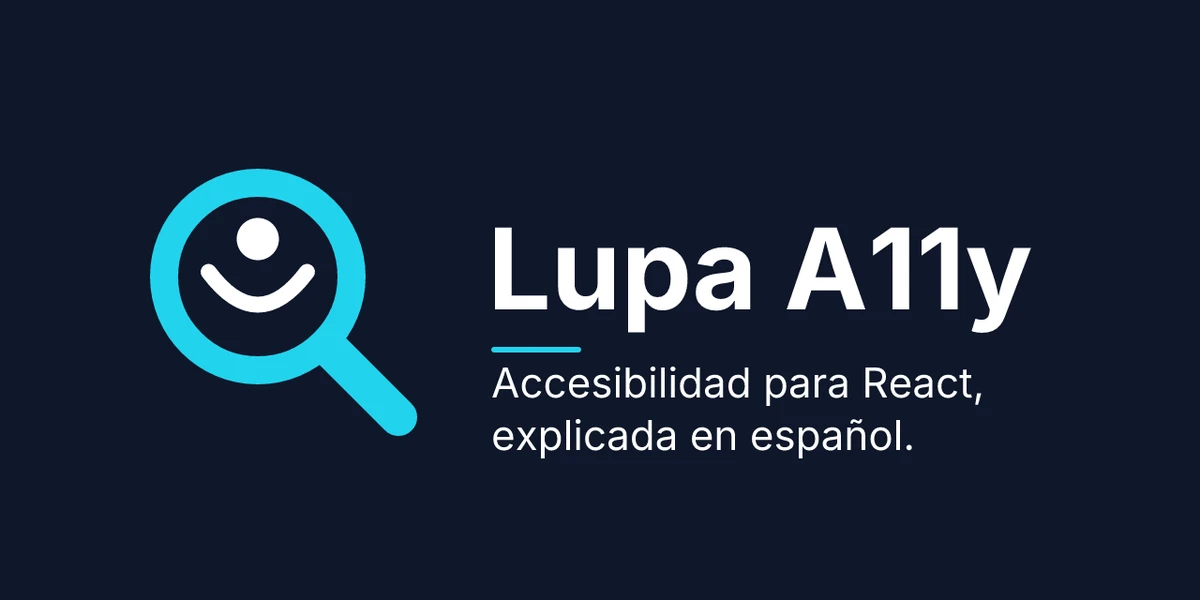
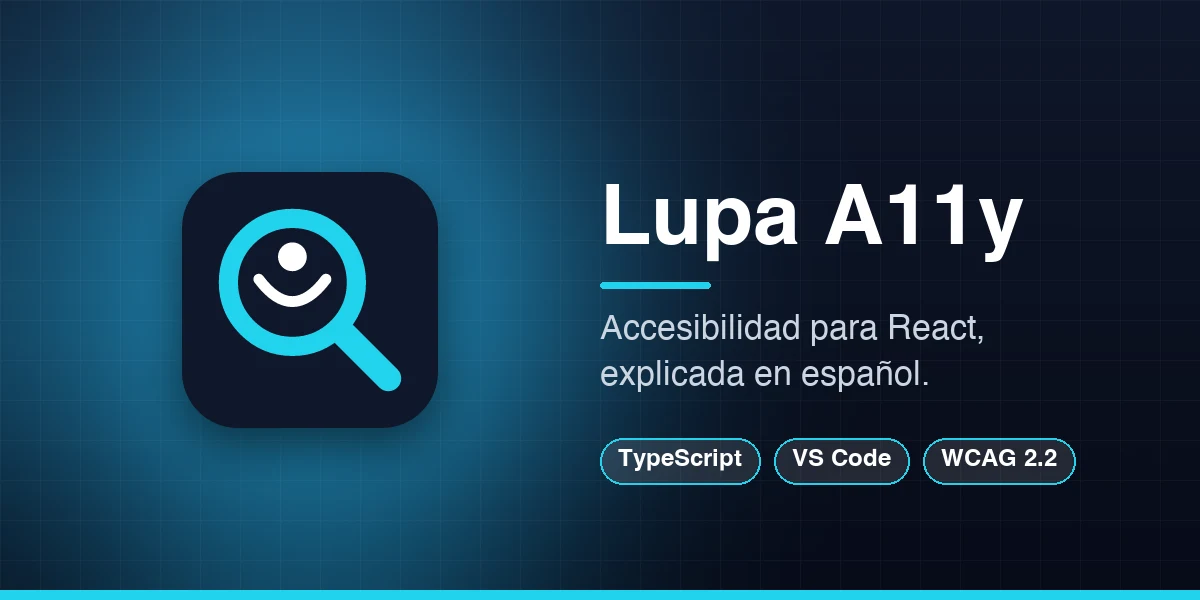
feat: imágenes unificadas para proyectos con capturas, nueva imagen y descripción de TasksFlow y tarjeta de Lupa A11y

diff --git a/src/i18n/locales/es.ts b/src/i18n/locales/es.ts
@@ -196,7 +196,7 @@ export const es = {
 
 	'Projects.Title.12': 'TasksFlow',
 	'Projects.Description.12':
-		'Sistema de gestion de tareas que permite crear, editar y eliminar tareas, ademas de asignarles una fecha de vencimiento y una prioridad.',
+		'Aplicación de gestión de tareas para crear, editar y completar tareas con fecha de vencimiento y prioridad. Incluye búsqueda y filtros, vista de calendario, panel de estadísticas, modo claro/oscuro, exportación e importación de datos y almacenamiento local.',
 
 	'Projects.Title.13': 'SIEMTI - Sistema de Punto de Venta',
 	'Projects.Description.13': 'Sistema de punto de venta (POS) para la empresa de Sistemas Empresariales en T.I.',

diff --git a/src/i18n/locales/en.ts b/src/i18n/locales/en.ts
@@ -195,7 +195,7 @@ export const en = {
 
 	'Projects.Title.12': 'TasksFlow',
 	'Projects.Description.12':
-		'Task management system to create, edit, and delete tasks, assign due dates and priorities.',
+		'Task management app to create, edit and complete tasks with due dates and priorities. Includes search and filters, a calendar view, a statistics dashboard, light/dark mode, data export and import, and local storage.',
 
 	'Projects.Title.13': 'SIEMTI - Point of Sale System',
 	'Projects.Description.13': 'Point of sale system (POS) for Sistemas Empresariales en T.I.',

diff --git a/src/data/projects.ts b/src/data/projects.ts
@@ -125,7 +125,7 @@ export const getProjects = (t: (key: string) => string) => [
 		linkView: 'https://tasksflow.andercmd.dev',
 		linkCode: 'https://github.com/AnderCMD/TasksFlow',
 		year: 2025,
-		technologies: ['Redux', 'React Vite', 'JavaScript', 'TailwindCSS', 'Git & Github'],
+		technologies: ['Redux', 'React Vite', 'JavaScript', 'TailwindCSS', 'Framer Motion', 'Git & Github'],
 		status: 'active',
 	},
 	{
